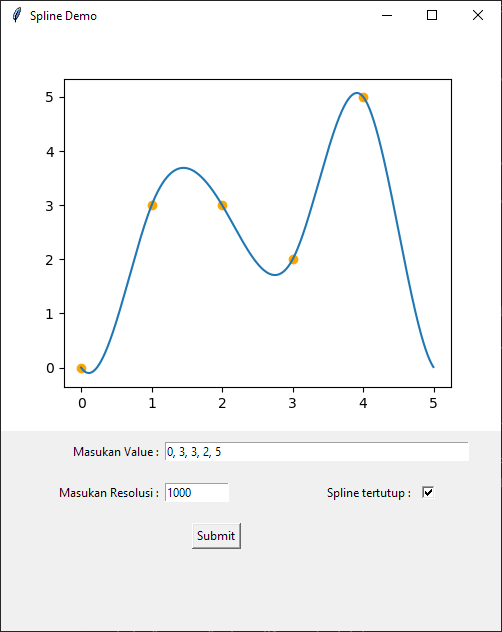
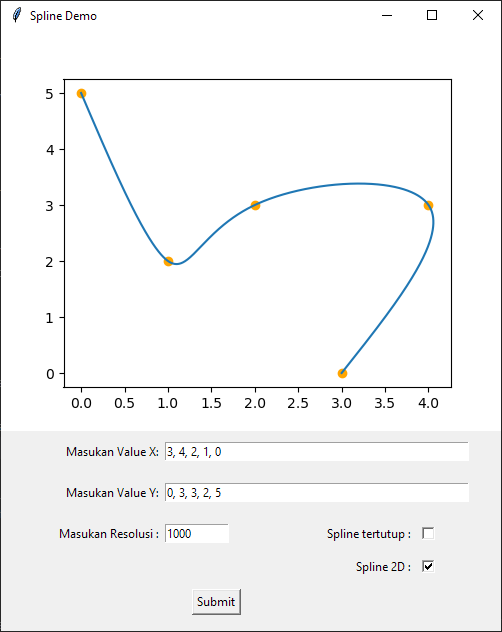
Spline 2D

diff --git a/main.py b/main.py
@@ -14,24 +14,37 @@ class MainView:
         self.root.geometry("500x600")
         self.root.title("Spline Demo")
         
-        self.valuesString = StringVar()
-        Label(self.root, text = "Masukan Value : ").grid(row=5, column=1, pady=10, sticky="e")
-        valuesInput = Entry(self.root, textvariable=self.valuesString, width=50).grid(row=5,column=2, pady=10, columnspan=5, sticky="w")
+        self.valuesStringY = StringVar()
+        Label(self.root, text = "Masukan Value Y: ").grid(row=6, column=1, pady=10, sticky="e")
+        Entry(self.root, textvariable=self.valuesStringY, width=50).grid(row=6,column=2, pady=10, columnspan=5, sticky="w")
         
+        self.valuesStringX = StringVar()
+        Label(self.root, text = "Masukan Value X: ").grid(row=5, column=1, pady=10, sticky="e")
+        self.__xEntry = Entry(self.root, textvariable=self.valuesStringX, width=50)
+        self.__xEntry.grid(row=5,column=2, pady=10, columnspan=5, sticky="w")
+
         #input awal
-        self.valuesString.set("0, 3, 3, 2, 5")
+        self.valuesStringY.set("0, 3, 3, 2, 5")
+        self.valuesStringX.set("3, 4, 2, 1, 0")
 
         self.resolutionString = StringVar()
-        Label(self.root, text = "Masukan Resolusi : ").grid(row=6, column=1, pady=10, sticky="e")
-        resolutionInput = Entry(self.root, textvariable=self.resolutionString, width=10).grid(row=6,column=2, pady=10, columnspan=5, sticky="w")
+        Label(self.root, text = "Masukan Resolusi : ").grid(row=7, column=1, pady=10, sticky="e")
+        resolutionInput = Entry(self.root, textvariable=self.resolutionString, width=10).grid(row=7,column=2, pady=10, columnspan=5, sticky="w")
         self.resolutionString.set("1000")
 
         self.isClosed = IntVar()
-        Checkbutton(self.root, variable=self.isClosed).grid(row=6, column=4, sticky="w")
-        Label(self.root, text = "Spline tertutup : ").grid(row=6, column=3, sticky="e")
+        Checkbutton(self.root, variable=self.isClosed).grid(row=7, column=4, sticky="w")
+        Label(self.root, text = "Spline tertutup : ").grid(row=7, column=3, sticky="e")
 
+        def set2D():
+            self.__xEntry["state"] = DISABLED if self.is2D.get() != 1 else NORMAL
 
-        submitValue = Button(self.root, command=self.update, text="Submit").grid(row=7, column=2, pady=10)
+        self.is2D = IntVar()
+        Checkbutton(self.root, variable=self.is2D, command=set2D).grid(row=8, column=4, sticky="w")
+        Label(self.root, text = "Spline 2D : ").grid(row=8, column=3, sticky="e")
+        self.is2D.set(1)
+
+        submitValue = Button(self.root, command=self.update, text="Submit").grid(row=9, column=2, pady=10)
 
         self.figure = fig.Figure(figsize=(5, 4), dpi=100)
 
@@ -45,37 +58,57 @@ class MainView:
         self.root.mainloop()
 
     def update(self):
-        values =  self.valuesString.get().split(',')
+        valuesY =  self.valuesStringY.get().split(',')
+        valuesX =  self.valuesStringX.get().split(',')
 
-        for i in values:
+        for i in valuesY:
             try:
                 float(i)
             except ValueError:
-                showwarning("Can't parse input", """Masukan angka dengan desimal titik dan dibatasi koma.\nContoh: "1, 2.3, 3, 4.5" """)
+                showwarning("Can't parse input Y", """Masukan angka dengan desimal titik dan dibatasi koma.\nContoh: "1, 2.3, 3, 4.5" """)
+                return
+
+        if(self.is2D.get() == 1):
+            for i in valuesX:
+                try:
+                    float(i)
+                except ValueError:
+                    showwarning("Can't parse input X", """Masukan angka dengan desimal titik dan dibatasi koma.\nContoh: "1, 2.3, 3, 4.5" """)
+                    return
+
+        if(len(valuesY) != len(valuesX) and self.is2D.get() == 1):
+            showwarning('Spline 2D harus memiliki jumlah titik yang sama!')
+            return
 
         resolution = self.resolutionString.get()
         try:
             resolution = int(resolution)
         except ValueError:
             showwarning("Can't parse input", """Masukan resolusi berupa integer""")
+            return
 
-        values = [float(i) for i in values]
+        valuesY = [float(i) for i in valuesY]
+        valuesX = [float(i) for i in valuesX]
 
-        nums = np.linspace(0, len(values) - 1, num=resolution)
+        nums = np.linspace(0, len(valuesY) - 1, num=resolution)
         if(self.isClosed.get() == 1):
-            nums = np.linspace(0, len(values), num=resolution)
+            nums = np.linspace(0, len(valuesY), num=resolution)
             nums = nums[:-1]
 
-        points = np.arange(0, len(values))
+        points = np.arange(0, len(valuesY))
 
-        interpolated = []
-        spline = CubicSpline(values, self.isClosed.get() == 1)
+        interpolatedY = []
+        interpolatedX = []
+        splineY = CubicSpline(valuesY, self.isClosed.get() == 1)
+        splineX = CubicSpline(valuesX, self.isClosed.get() == 1)
         for i in nums:
-            interpolated.append(spline.getPoint(i))
+            interpolatedY.append(splineY.getPoint(i))
+            if(self.is2D.get() == 1):
+                interpolatedX.append(splineX.getPoint(i))
 
         self.plt.clear()
-        self.plt.plot(nums, interpolated)
-        self.plt.scatter(points, values, c="orange")
+        self.plt.plot(interpolatedX if self.is2D.get() == 1 else nums, interpolatedY)
+        self.plt.scatter(valuesX if self.is2D.get() == 1 else points, valuesY, c="orange")
         old = self.canvas.get_tk_widget()
         self.canvas = FigureCanvasTkAgg(self.figure, self.root)
         self.canvas.get_tk_widget().grid(row=1,column=1,rowspan=4,columnspan=4)
